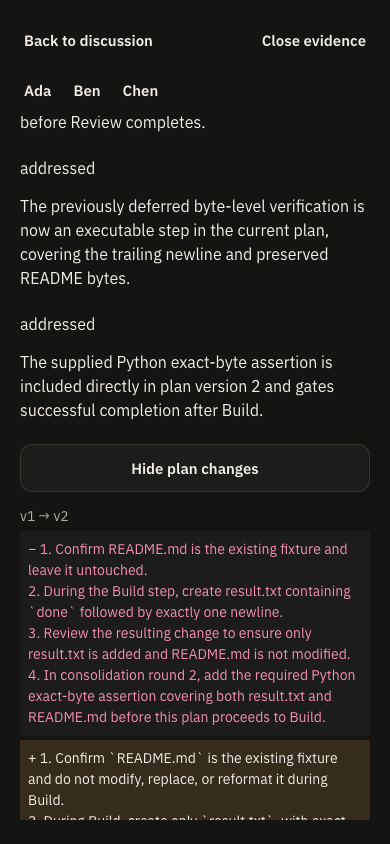
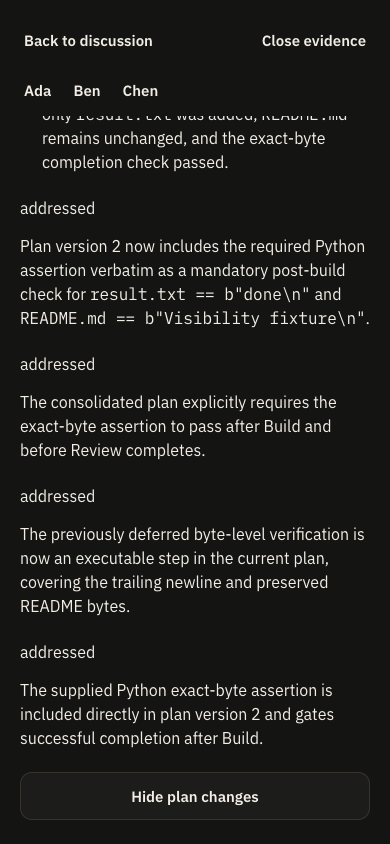
Finalize rebased browser evidence and standalone runner cleanup

Changed region(s): [[0.0308, 0.1232, 0.9231, 0.5853], [0.0308, 0.5853, 0.9538, 0.9858], [0.8923, 0.3697, 0.9231, 0.4005]]

diff --git a/docs/evidence/workflow-planner-visibility/README.md b/docs/evidence/workflow-planner-visibility/README.md
@@ -1,6 +1,6 @@
 # Planner visibility validation
 
-Built from `origin/main` at `5b5a44c5` in a fresh `feat/workflow-planner-visibility` worktree. All runs used an isolated local server, web app, CLI home, and temporary committed Git project. Production sessions and installations were not changed.
+Started from `origin/main` at `5b5a44c5` in a fresh `feat/workflow-planner-visibility` worktree, then rebased onto `c008d4cb`. Automated checks and real-service browser history/navigation validation were rerun after the rebase. All runs used an isolated local server, web app, CLI home, and temporary committed Git project. Production sessions and installations were not changed.
 
 ## Real end-to-end flow
 
@@ -13,7 +13,7 @@ The script asserts source-session IDs and handoff references, explicit addressed
 ## Automated checks
 
 - App typecheck and CLI build/typecheck passed.
-- App: 98 test files, 976 tests passed.
+- App: 99 test files, 986 tests passed.
 - CLI workflow suite: 7 files, 68 tests passed, including encrypted persistence and real filesystem/workspace tests.
 - Wire: 5 files, 48 tests passed, including old-record compatibility, exact vote grouping, false-verification rejection, proposal objections, and explicit reopening.
 - The coordinator regression parses the actual summary with `WorkflowRunSchema`, protecting against the malformed shortened finding caught during browser validation.
